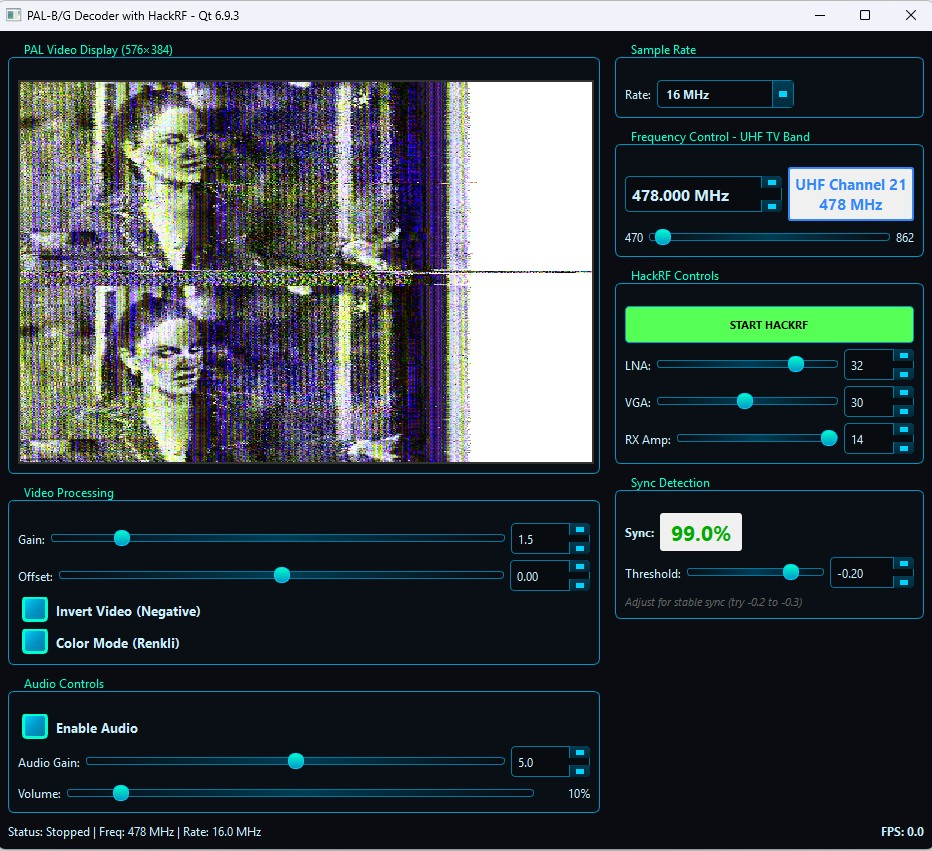
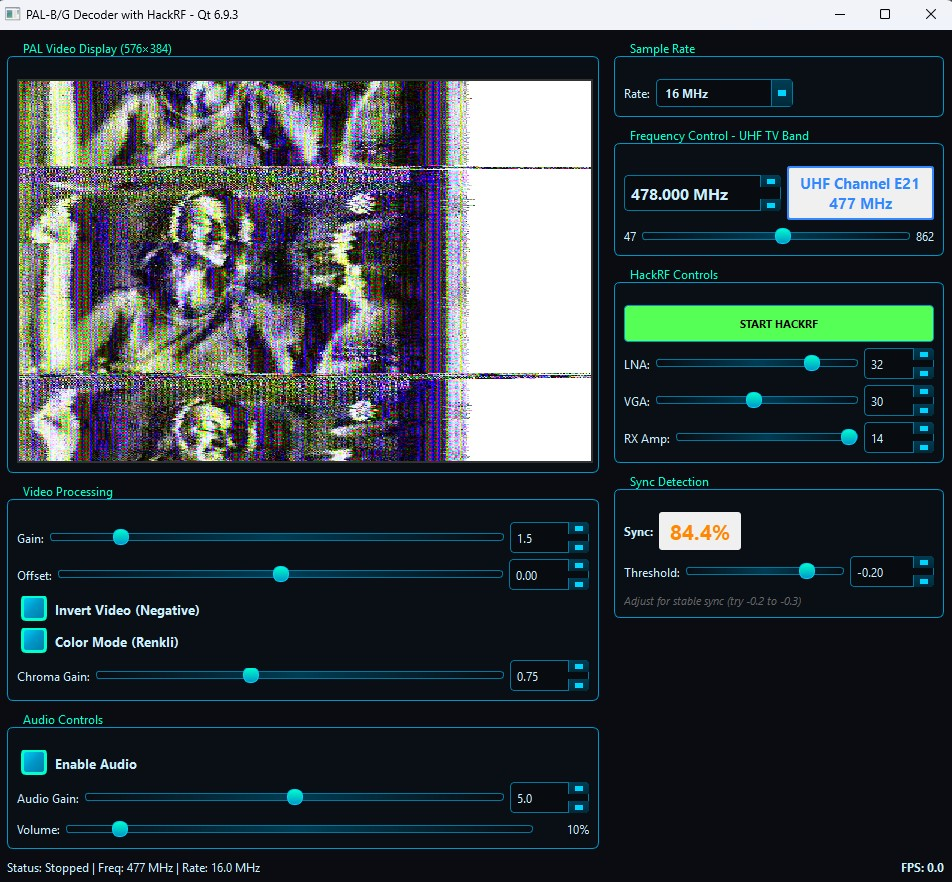
fix

diff --git a/PALBDecoder/MainWindow.cpp b/PALBDecoder/MainWindow.cpp
@@ -185,6 +185,32 @@ void MainWindow::setupUI()
             this, &MainWindow::onColorModeChanged);
     videoControlLayout->addWidget(m_colorModeCheckBox);
 
+    // Chroma Gain Control
+    QHBoxLayout* chromaGainLayout = new QHBoxLayout();
+    chromaGainLayout->addWidget(new QLabel("Chroma Gain:", this));
+
+    m_chromaGainSlider = new QSlider(Qt::Horizontal, this);
+    m_chromaGainSlider->setRange(0, 200);
+    m_chromaGainSlider->setValue(75);
+    m_chromaGainSlider->setMinimumWidth(200);
+    chromaGainLayout->addWidget(m_chromaGainSlider);
+
+    m_chromaGainSpinBox = new QDoubleSpinBox(this);
+    m_chromaGainSpinBox->setRange(0.0, 2.0);
+    m_chromaGainSpinBox->setSingleStep(0.01);
+    m_chromaGainSpinBox->setValue(0.75);
+    m_chromaGainSpinBox->setDecimals(2);
+    chromaGainLayout->addWidget(m_chromaGainSpinBox);
+
+    connect(m_chromaGainSlider, &QSlider::valueChanged,
+            this, &MainWindow::onChromaGainChanged);
+    connect(m_chromaGainSpinBox, QOverload<double>::of(&QDoubleSpinBox::valueChanged),
+            [this](double value) {
+                m_chromaGainSlider->setValue(static_cast<int>(value * 100));
+            });
+
+    videoControlLayout->addLayout(chromaGainLayout);
+
     leftColumn->addWidget(videoControlGroup);
 
     // Audio Controls (NEW - BELOW VIDEO CONTROLS)
@@ -309,7 +335,7 @@ void MainWindow::setupUI()
 
     QHBoxLayout* freqTopLayout = new QHBoxLayout();
     m_frequencySpinBox = new QDoubleSpinBox(this);
-    m_frequencySpinBox->setRange(470.0, 862.0);
+    m_frequencySpinBox->setRange(47.0, 862.0);
     m_frequencySpinBox->setValue(478.0);
     m_frequencySpinBox->setSingleStep(0.1);
     m_frequencySpinBox->setDecimals(3);
@@ -338,11 +364,11 @@ void MainWindow::setupUI()
     freqLayout->addLayout(freqTopLayout);
 
     QHBoxLayout* sliderLayout = new QHBoxLayout();
-    QLabel* minLabel = new QLabel("470", this);
+    QLabel* minLabel = new QLabel("47", this);
     sliderLayout->addWidget(minLabel);
 
     m_frequencySlider = new QSlider(Qt::Horizontal, this);
-    m_frequencySlider->setRange(470, 862);
+    m_frequencySlider->setRange(47, 862);
     m_frequencySlider->setValue(478);
     m_frequencySlider->setTickPosition(QSlider::TicksBelow);
     m_frequencySlider->setTickInterval(8);
@@ -665,22 +691,55 @@ void MainWindow::onColorModeChanged(int state)
 
     qDebug() << "Color mode:" << (colorMode ? "COLOR" : "B&W");
 }
+
+void MainWindow::onChromaGainChanged(int value)
+{
+    float chromaGain = value / 100.0f;
+    
+    m_chromaGainSpinBox->blockSignals(true);
+    m_chromaGainSpinBox->setValue(chromaGain);
+    m_chromaGainSpinBox->blockSignals(false);
+
+    if (m_palDecoder) {
+        m_palDecoder->setChromaGain(chromaGain);
+    }
+
+    qDebug() << "Chroma gain:" << chromaGain;
+}
 void MainWindow::updateChannelLabel(uint64_t frequency)
 {
-    // UHF TV kanalı hesapla
-    // UHF kanal formülü: Kanal = (Frekans - 306 MHz) / 8 MHz
-    // Örnek: 474 MHz = Kanal 21
-
     int64_t freqMHz = frequency / 1000000;
     int channel = -1;
+    QString band;
 
-    if (freqMHz >= 470 && freqMHz <= 862) {
+    // VHF Band I (E2-E4): 47-68 MHz
+    if (freqMHz >= 47 && freqMHz <= 68) {
+        if (freqMHz >= 46 && freqMHz <= 50) {
+            channel = 2;
+        } else if (freqMHz >= 53 && freqMHz <= 57) {
+            channel = 3;
+        } else if (freqMHz >= 60 && freqMHz <= 64) {
+            channel = 4;
+        }
+        band = "VHF-I";
+    }
+    // VHF Band III (E5-E12): 174-230 MHz
+    else if (freqMHz >= 174 && freqMHz <= 230) {
+        channel = ((freqMHz - 175) / 8) + 5;
+        if (channel < 5 || channel > 12) channel = -1;
+        band = "VHF-III";
+    }
+    // UHF Band IV/V (E21-E69): 470-862 MHz
+    else if (freqMHz >= 470 && freqMHz <= 862) {
         channel = (freqMHz - 306) / 8;
+        if (channel < 21 || channel > 69) channel = -1;
+        band = "UHF";
     }
 
     QString text;
-    if (channel >= 21 && channel <= 69) {
-        text = QString("<b>UHF Channel %1</b><br>%2 MHz")
+    if (channel > 0) {
+        text = QString("<b>%1 Channel E%2</b><br>%3 MHz")
+                   .arg(band)
                    .arg(channel)
                    .arg(freqMHz);
     } else {

diff --git a/PALBDecoder/MainWindow.h b/PALBDecoder/MainWindow.h
@@ -57,6 +57,7 @@ private slots:
     void updateChannelLabel(uint64_t frequency);
     void onInvertVideoChanged(int state);
     void onColorModeChanged(int state);
+    void onChromaGainChanged(int value);
     void onSyncThresholdChanged(int value);
     void onSyncStatsUpdated(float syncRate, float peakLevel, float minLevel);
     void onSampleRateChanged(int index);
@@ -100,6 +101,8 @@ private:
     QPushButton* m_startStopButton;
     QCheckBox* m_invertVideoCheckBox;
     QCheckBox* m_colorModeCheckBox;
+    QSlider* m_chromaGainSlider;
+    QDoubleSpinBox* m_chromaGainSpinBox;
     QComboBox* m_sampleRateComboBox;
 
     // Core components
@@ -142,9 +145,15 @@ private:
     static constexpr size_t MAX_AUDIO_QUEUE = 10; // Max 10 chunk
 
     // Constants
-    static constexpr uint64_t UHF_MIN_FREQ = 470000000ULL;
+    static constexpr uint64_t VHF_BAND1_MIN_FREQ = 47000000ULL;   // VHF Band I (E2-E4)
+    static constexpr uint64_t VHF_BAND1_MAX_FREQ = 68000000ULL;
+    static constexpr uint64_t VHF_BAND3_MIN_FREQ = 174000000ULL;  // VHF Band III (E5-E12)
+    static constexpr uint64_t VHF_BAND3_MAX_FREQ = 230000000ULL;
+    static constexpr uint64_t UHF_MIN_FREQ = 470000000ULL;        // UHF Band IV/V (E21-E69)
     static constexpr uint64_t UHF_MAX_FREQ = 862000000ULL;
-    static constexpr uint64_t DEFAULT_FREQ = 478000000ULL;
+    static constexpr uint64_t MIN_FREQ = VHF_BAND1_MIN_FREQ;
+    static constexpr uint64_t MAX_FREQ = UHF_MAX_FREQ;
+    static constexpr uint64_t DEFAULT_FREQ = 478000000ULL;        // UHF E21
     static constexpr uint32_t SAMP_RATE = 16000000;
 };
 

diff --git a/PALBDecoder/PALDecoder.cpp b/PALBDecoder/PALDecoder.cpp
@@ -416,21 +416,19 @@ void PALDecoder::finalizeLine()
                     U = U1 + (U2 - U1) * frac;
                     V = V1 + (V2 - V1) * frac;
                     
-                    // PAL Delay Line (Comb Filter)
-                    // İki ardışık satırı birleştir
-                    if (!m_prevLineU.empty() && x < (int)m_prevLineU.size()) {
-                        // V fazı her satırda ters olduğu için:
-                        U = (U + m_prevLineU[x]) * 0.5f;
-                        V = (V - m_prevLineV[x]) * 0.5f; // V ters faz
-                    }
-                    
-                    // Chroma gain uygula
-                    U *= m_chromaGain;
-                    V *= m_chromaGain;
-                    
-                    // Mevcut satırı sakla
+                    // Önce currentLine'a kaydet (chromaGain uygulanmadan)
                     currentLineU[x] = U;
                     currentLineV[x] = V;
+                    
+                    // PAL Delay Line (Comb Filter)
+                    if (!m_prevLineU.empty() && x < (int)m_prevLineU.size()) {
+                        U = (U + m_prevLineU[x]) * 0.5f;
+                        V = (V - m_prevLineV[x]) * 0.5f;
+                    }
+                    
+                    // Chroma gain uygula (comb filter'dan SONRA)
+                    U *= m_chromaGain;
+                    V *= m_chromaGain;
                 }
 
                 yuv2rgb(Y, U, V, r, g, b);
